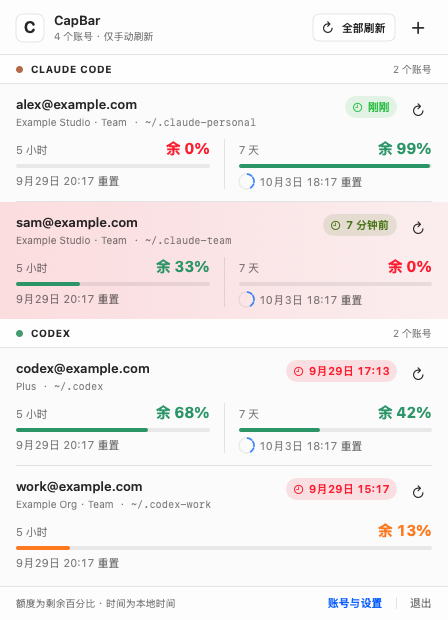
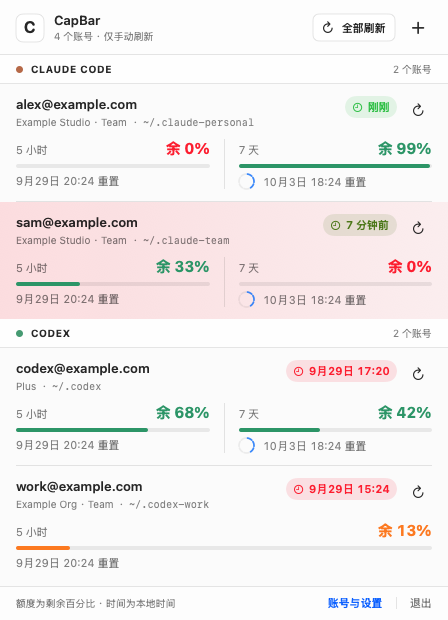
Space weekly reset ring from timestamp

diff --git a/design/reset-visual-study.html b/design/reset-visual-study.html
@@ -74,7 +74,7 @@
     .quota-track { height: 4px; margin-top: 10px; overflow: hidden; border-radius: 6px; background: var(--track); }
     .quota-fill { height: 100%; border-radius: inherit; background: var(--green); }
     .quota-fill.empty { background: var(--red); }
-    .reset { display: flex; align-items: center; gap: 5px; min-width: 0; margin-top: 10px; color: var(--muted); font-size: 10px; white-space: nowrap; font-variant-numeric: tabular-nums; }
+    .reset { display: flex; align-items: center; gap: 9px; min-width: 0; margin-top: 10px; color: var(--muted); font-size: 10px; white-space: nowrap; font-variant-numeric: tabular-nums; }
     .reset strong { color: var(--ink); font-size: 10px; font-weight: 680; }
     .reset .muted { color: var(--muted); font-weight: 500; }
     .metric.five .reset strong { color: var(--muted); font-weight: 500; }

diff --git a/Sources/CapBarCore/UI/PopoverView.swift b/Sources/CapBarCore/UI/PopoverView.swift
@@ -246,7 +246,7 @@ private struct CapBarAccountRow: View {
                 .font(.system(size: 13, weight: .semibold))
                 .lineLimit(1)
                 .help(row.title)
-            HStack(spacing: 6) {
+            HStack(spacing: 5) {
                 Text(row.subtitle).lineLimit(1)
                 Text("·")
                 Text(row.directoryLabel).lineLimit(1)
@@ -355,7 +355,7 @@ private struct CapBarMetric: View {
             }
             .frame(height: expanded ? 5 : 4)
             if expanded { Spacer(minLength: 6) }
-            HStack(spacing: 5) {
+            HStack(spacing: 9) {
                 if window.kind == .sevenDay, case let .upcoming(progress) = resetState {
                     SevenDayResetRing(progress: progress)
                 }
